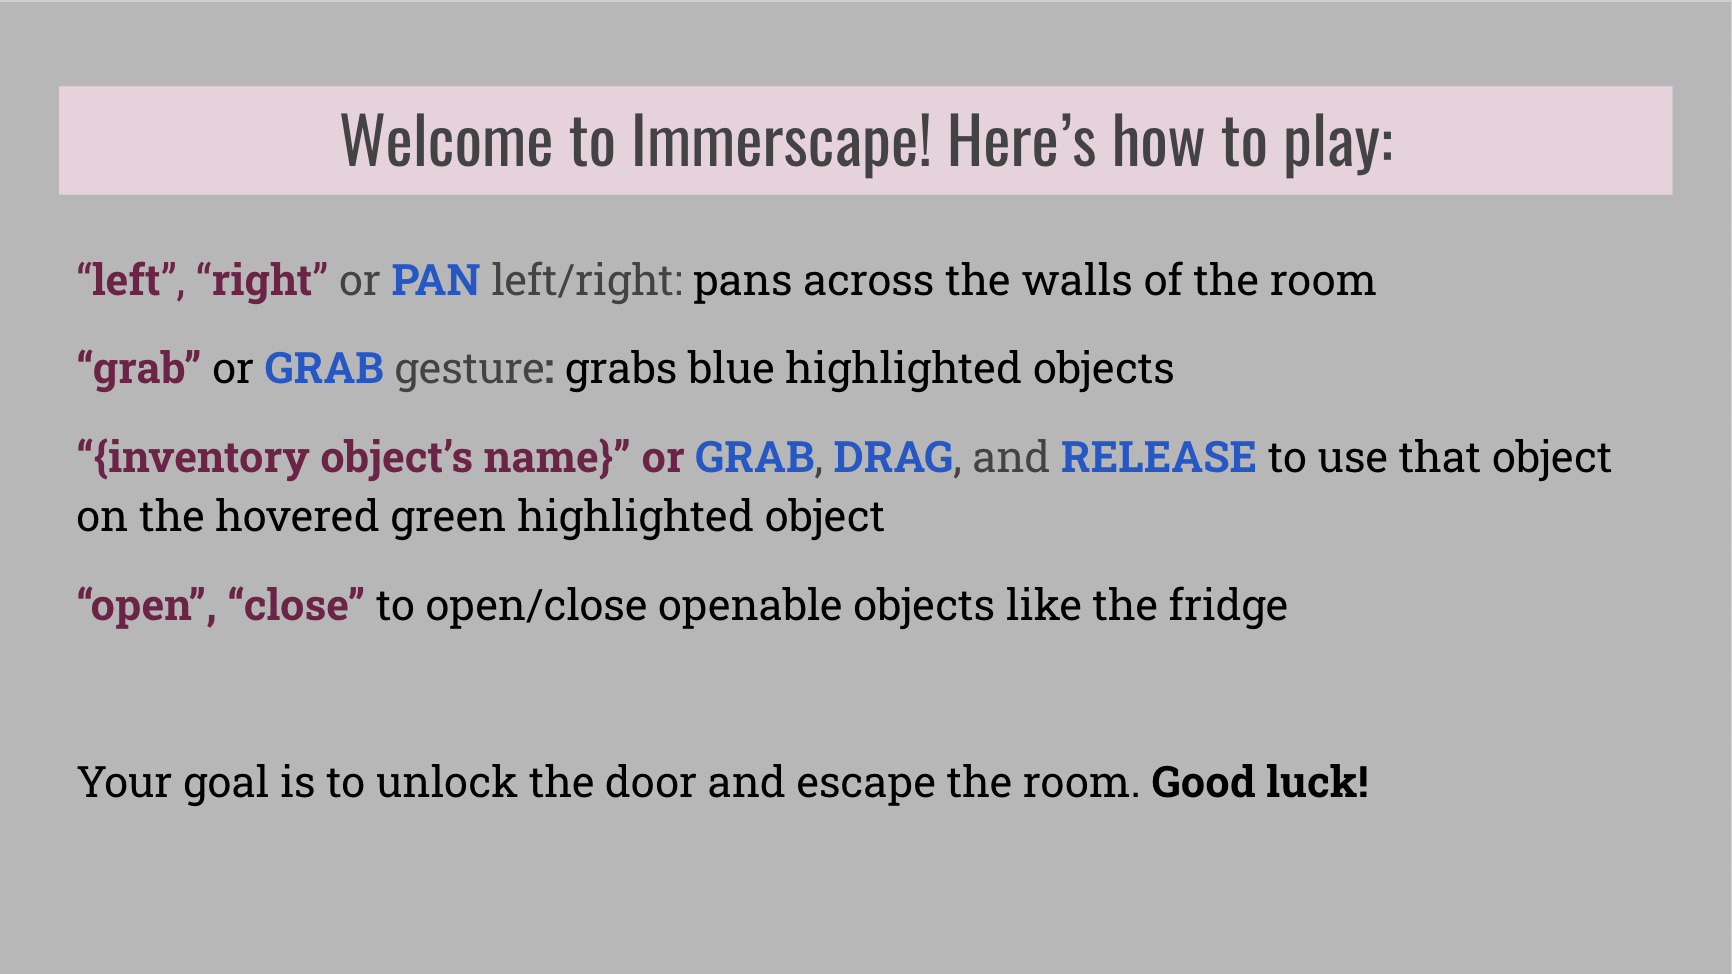
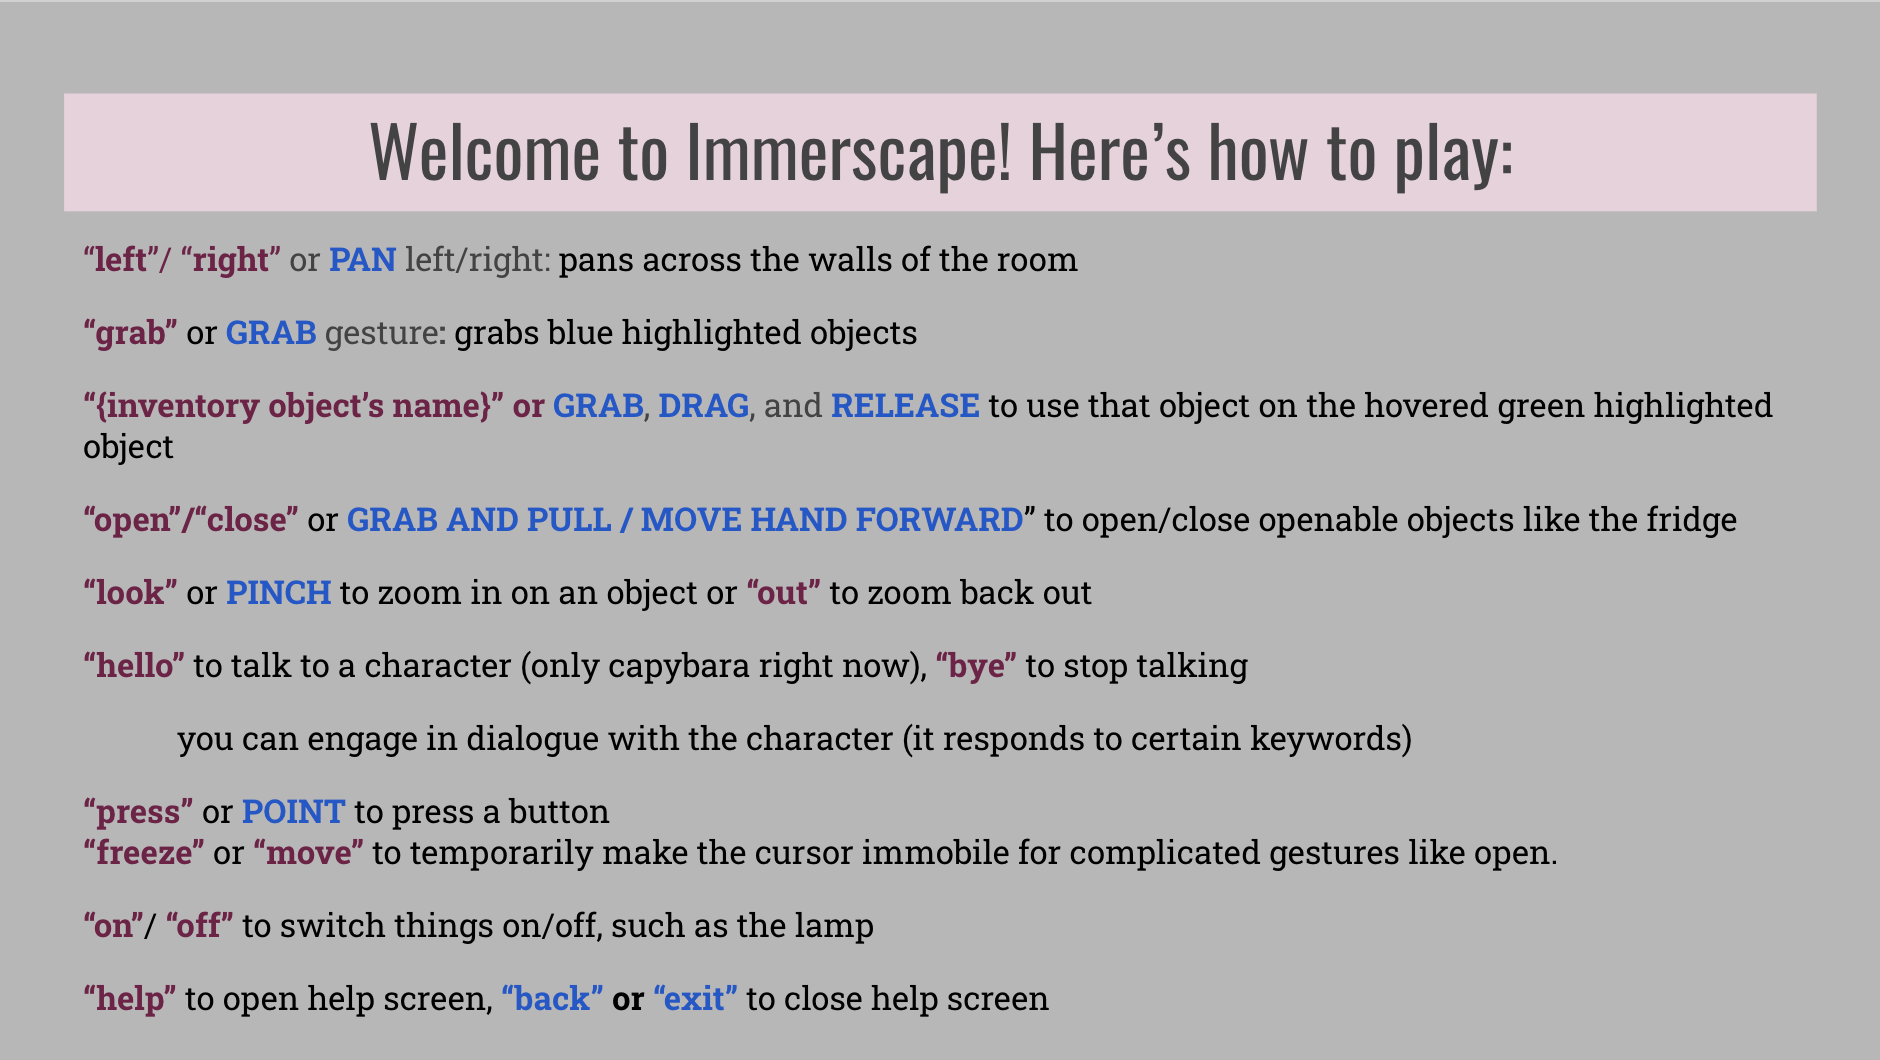
added help screen

diff --git a/app/main.js b/app/main.js
@@ -269,6 +269,19 @@ function tryTurnOnHoveredItem() {
   }
 }
 
+function showHelpScreen() {
+  currentRoom.getView().addItem(tutorial);
+  currentRoom.drawView();
+}
+
+function closeHelpScreen() {
+  if (currentRoom.getView().get("items").includes(tutorial)) {
+    tutorial.hide();
+    currentRoom.getView().removeItem(tutorial);
+    currentRoom.drawView();
+  }
+}
+
 function transitionLeft() {
   currentRoom.transition("left");
 }
@@ -330,6 +343,16 @@ var processSpeech = function (transcript) {
     [["close", "clothes"], tryCloseHoveredItem],
     [["on", "I'm", "aunt"], tryTurnOnHoveredItem],
     [["off", "IHOP", "Off", "call"], tryTurnOffHoveredItem],
+    [["help"], showHelpScreen],
+    [["back", "exit"], closeHelpScreen],
+
+    [
+      ["restart"],
+      () => {
+        window.location.reload();
+        generateSpeech("game restarted");
+      },
+    ],
     [
       [
         "press",

diff --git a/app/room1.js b/app/room1.js
@@ -3,8 +3,8 @@
 tutorial = new Item({
   name: "tutorial",
   source: "img/help.png",
-  displayed: false,
-  size: [window.innerHeight * 1.2, window.innerHeight * 0.7],
+  // displayed: false,
+  sizeRel: [0.5, 0.7],
   posRel: [0.2, 0.05],
 });
 
